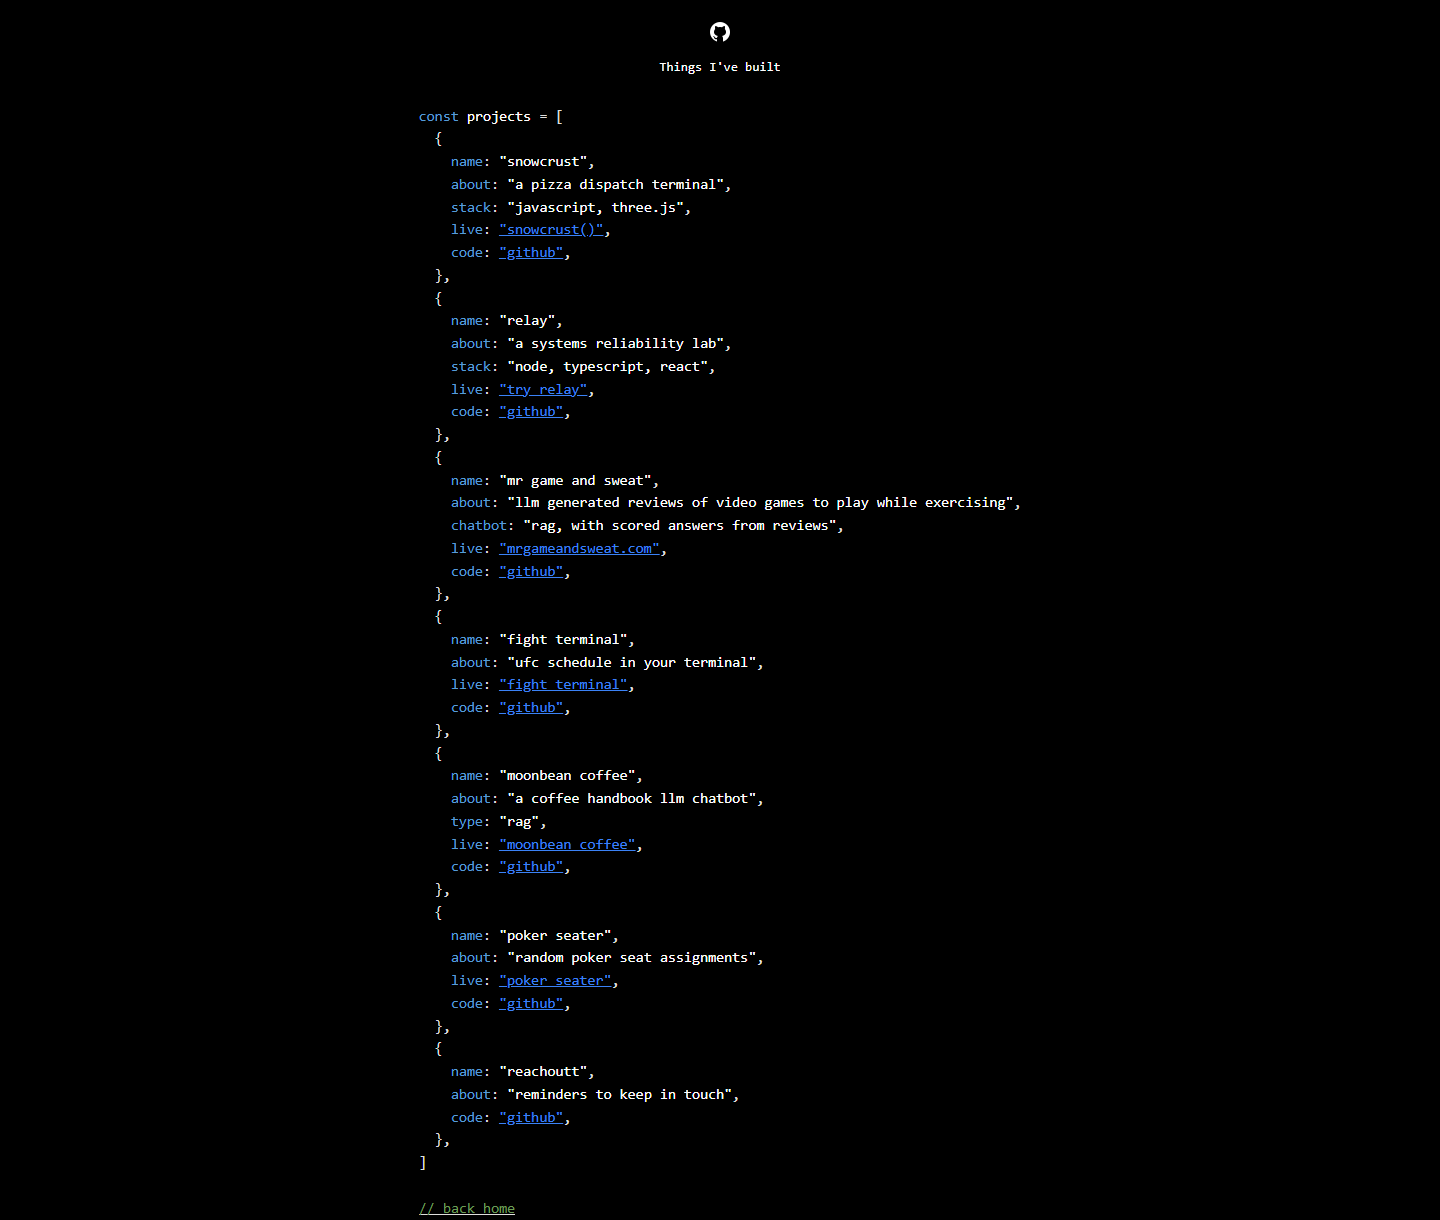
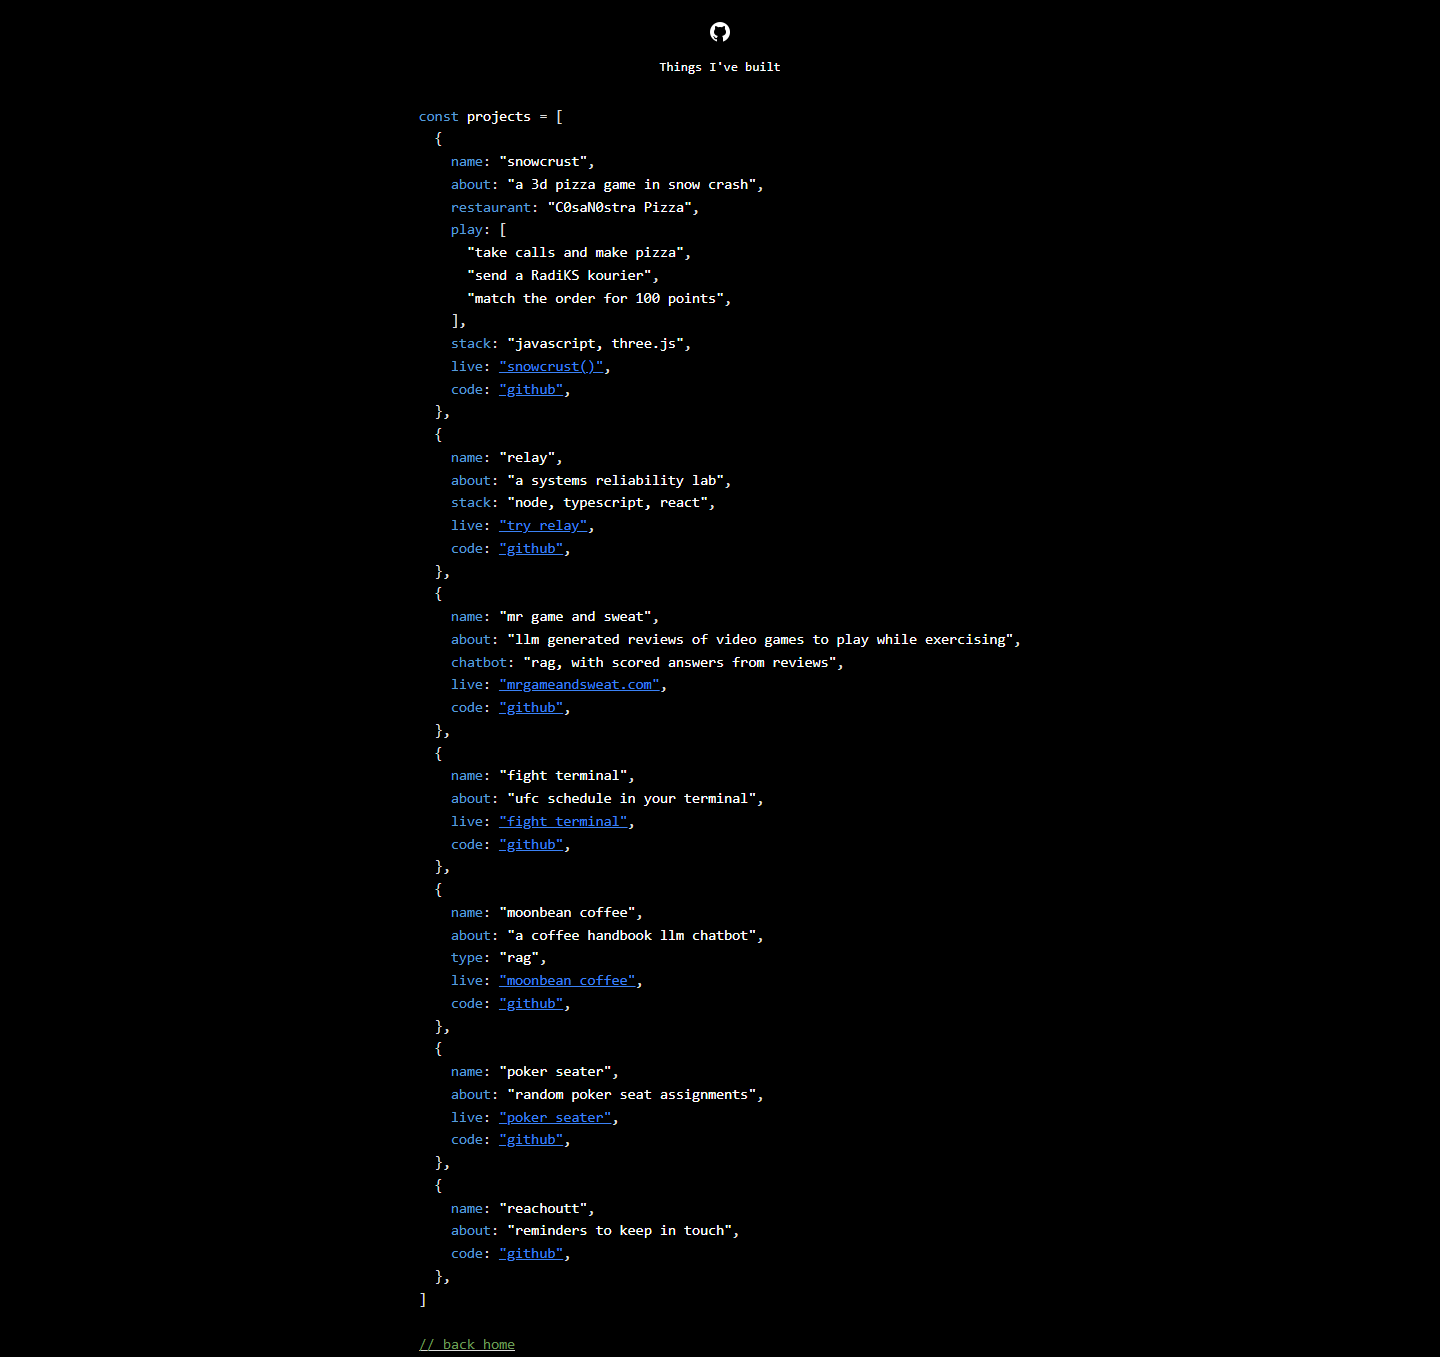
update snowcrust project

diff --git a/projects.html b/projects.html
@@ -10,11 +10,11 @@
 		/>
 		<link rel="stylesheet" href="stylesheets/main.css" />
 		<title>Projects | Taylor Dorsett</title>
-		<meta name="description" content="Things Taylor Dorsett has built.">
+		<meta name="description" content="Games and tools by Taylor Dorsett. Play Snowcrust, a 3d pizza game set in Snow Crash, or explore the code.">
 		<meta property="og:type" content="website">
 		<meta property="og:site_name" content="Taylor Dorsett">
 		<meta property="og:title" content="Projects | Taylor Dorsett">
-		<meta property="og:description" content="Things Taylor Dorsett has built.">
+		<meta property="og:description" content="Games and tools by Taylor Dorsett. Play Snowcrust, a 3d pizza game set in Snow Crash, or explore the code.">
 		<meta property="og:url" content="https://www.taylordorsett.com/projects.html">
 		<meta property="og:image" content="https://www.taylordorsett.com/images/og-image.png">
 		<meta property="og:image:width" content="1200">
@@ -46,7 +46,13 @@
 <span class="keyword">const</span> <span class="default">projects</span> = [
   {
     <span class="property">name</span>: <span class="string">"snowcrust"</span>,
-    <span class="property">about</span>: <span class="string">"a pizza dispatch terminal"</span>,
+    <span class="property">about</span>: <span class="string">"a 3d pizza game in snow crash"</span>,
+    <span class="property">restaurant</span>: <span class="string">"C0saN0stra Pizza"</span>,
+    <span class="property">play</span>: [
+      <span class="string">"take calls and make pizza"</span>,
+      <span class="string">"send a RadiKS kourier"</span>,
+      <span class="string">"match the order for 100 points"</span>,
+    ],
     <span class="property">stack</span>: <span class="string">"javascript, three.js"</span>,
     <span class="property">live</span>: <a href="/snowcrust/" class="text-blue-500 underline" aria-label="Play Snowcrust"><span class="string">"snowcrust()"</span></a>,
     <span class="property">code</span>: <a href="https://github.com/TaylorOD/snowcrust" class="text-blue-500 underline" aria-label="Snowcrust code on GitHub"><span class="string">"github"</span></a>,

diff --git a/one-more-slice/index.html b/one-more-slice/index.html
@@ -3,10 +3,10 @@
 <head>
   <meta charset="utf-8">
   <meta name="viewport" content="width=device-width, initial-scale=1">
-  <title>Snowcrust</title>
+  <title>Snowcrust | C0saN0stra Pizza</title>
   <meta http-equiv="refresh" content="0; url=/snowcrust/">
   <link rel="canonical" href="https://www.taylordorsett.com/snowcrust/">
   <script>location.replace('/snowcrust/' + location.search + location.hash)</script>
 </head>
-<body><p>Pizza dispatch moved to <a href="/snowcrust/">Snowcrust</a>.</p></body>
+<body><p>The pizza game moved to <a href="/snowcrust/">Snowcrust</a>.</p></body>
 </html>

diff --git a/index.html b/index.html
@@ -49,7 +49,7 @@
 						alt="Taylor Dorsett in a tie dye shirt eating pizza"
 						class="main-image"
 					/>
-					<a id="pizza-entrance" href="/snowcrust/" aria-label="Open Snowcrust" title="snowcrust()"></a>
+					<a id="pizza-entrance" href="/snowcrust/" aria-label="Play Snowcrust, a 3d pizza game" title="play snowcrust()"></a>
 					</div>
 					<button type="button" id="photo-toggle" class="comment underline text-center mt-4" hidden></button>
 					<script>
